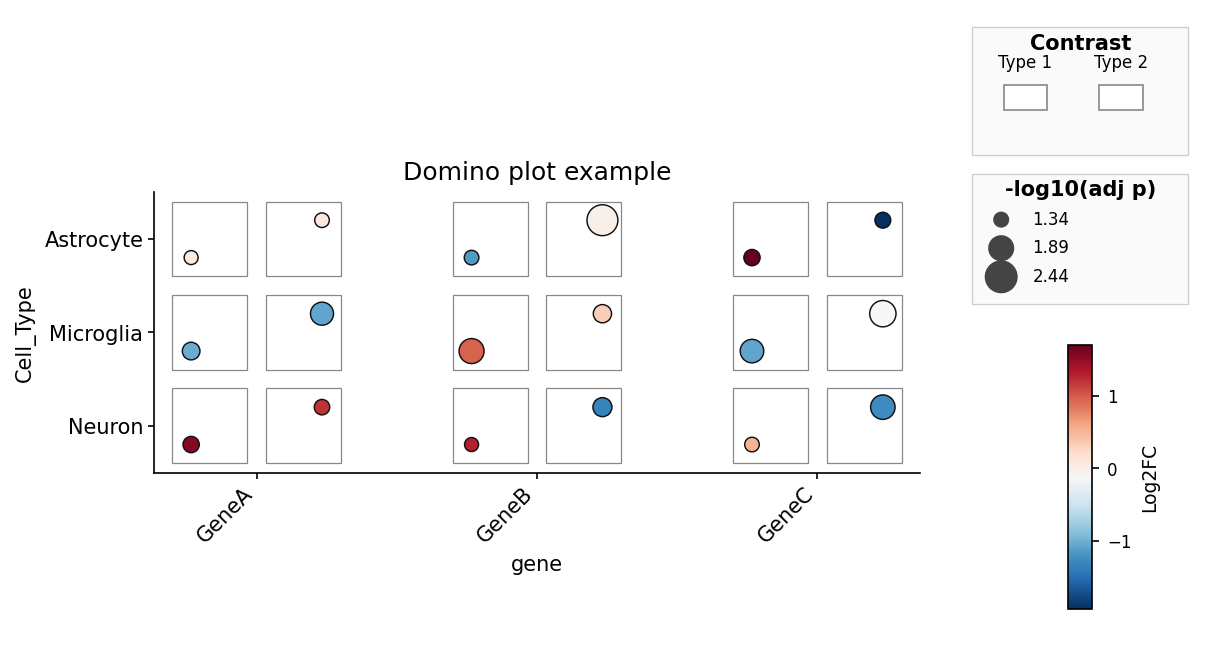
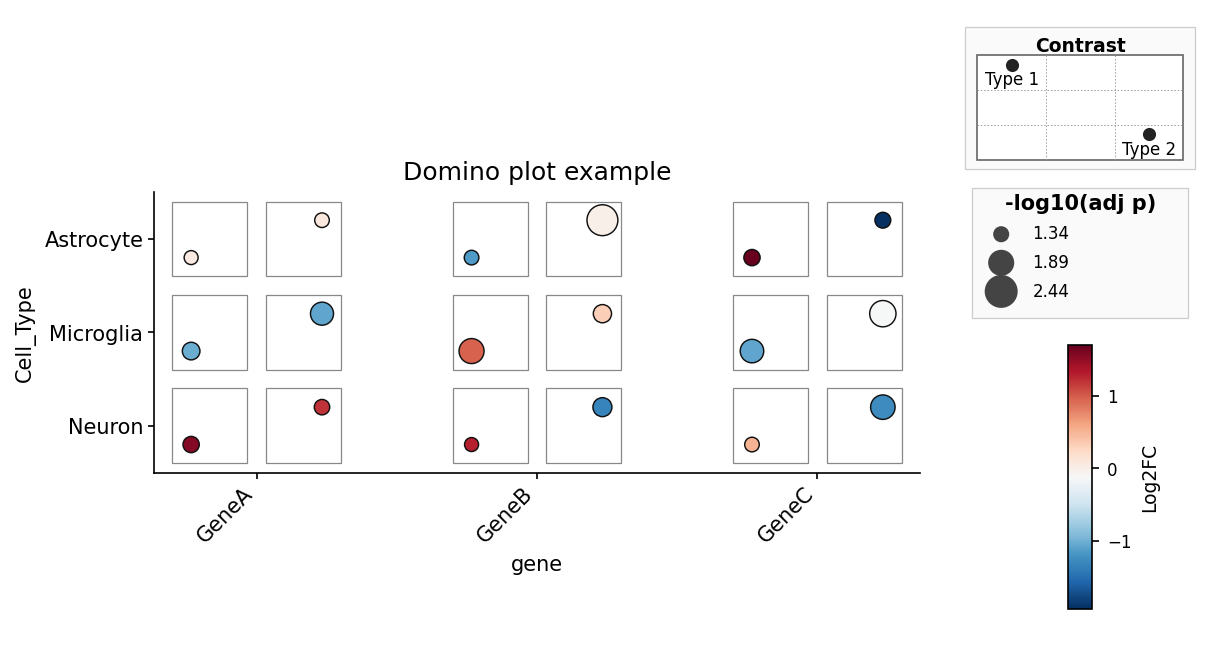
Make domino legends use the standard pydiceplot position key

Changed region(s): [[0.7918, 0.0301, 0.9745, 0.4812]]

diff --git a/pydiceplot/plots/backends/_plotly_backend.py b/pydiceplot/plots/backends/_plotly_backend.py
@@ -8,6 +8,7 @@ When `fig=` is supplied we add shapes/traces to it and skip the legend stack
 from __future__ import annotations
 
 import os
+from types import SimpleNamespace
 from typing import List, Optional
 
 import matplotlib
@@ -638,7 +639,9 @@ def _draw_domino_legend_stack(
     shapes = list(fig.layout.shapes) if fig.layout.shapes else []
     annos = list(fig.layout.annotations) if fig.layout.annotations else []
 
-    cursor = _legend_domino_contrasts(shapes, annos, dp.contrast_labels, lx0, lx1, cursor)
+    cursor = _legend_domino_contrasts(
+        shapes, annos, dp.contrast_labels, lx0, lx1, cursor, aspect
+    )
     cursor -= 0.02
 
     if dp.size_extent is not None and size_label:
@@ -655,42 +658,9 @@ def _draw_domino_legend_stack(
 
 
 def _legend_domino_contrasts(shapes, annos, labels: List[str],
-                             x0: float, x1: float, y_top: float) -> float:
-    box_pad = 0.01
-    title_h = 0.025
-    demo_h = 0.12
-    total_h = title_h + demo_h + 2 * box_pad
-    box_bot = y_top - total_h
-
-    shapes.append(dict(
-        type="rect", xref="paper", yref="paper",
-        x0=x0, x1=x1, y0=box_bot, y1=y_top,
-        fillcolor="#fafafa", line=dict(color="#cccccc", width=0.8),
-    ))
-    annos.append(dict(
-        x=(x0 + x1) / 2, y=y_top - title_h / 2 - box_pad,
-        xref="paper", yref="paper",
-        text="<b>Contrast</b>", showarrow=False, font=dict(size=10),
-        xanchor="center", yanchor="middle",
-    ))
-
-    rect_w = 0.06
-    rect_h = 0.03
-    rect_y0 = box_bot + 0.035
-    rect_positions = [x0 + 0.04, x0 + 0.13]
-    for rect_x0, label in zip(rect_positions, labels):
-        shapes.append(dict(
-            type="rect", xref="paper", yref="paper",
-            x0=rect_x0, x1=rect_x0 + rect_w, y0=rect_y0, y1=rect_y0 + rect_h,
-            fillcolor="white", line=dict(color="#888888", width=0.8),
-        ))
-        annos.append(dict(
-            x=rect_x0 + rect_w / 2, y=rect_y0 + rect_h + 0.02,
-            xref="paper", yref="paper",
-            text=label, showarrow=False, font=dict(size=8),
-            xanchor="center", yanchor="bottom",
-        ))
-    return box_bot
+                             x0: float, x1: float, y_top: float, aspect: float) -> float:
+    legend_dp = SimpleNamespace(npips=len(labels), pip_labels=list(labels))
+    return _legend_position(shapes, annos, legend_dp, "Contrast", x0, x1, y_top, aspect)
 
 
 def _legend_domino_size(shapes, annos, title: str, srange,

diff --git a/tests/test_domino_plot.py b/tests/test_domino_plot.py
@@ -93,6 +93,30 @@ def test_matplotlib_domino_returns_fig_ax():
     plt.close(fig)
 
 
+def test_matplotlib_domino_legend_has_position_dots_and_labels():
+    pydiceplot.set_backend("matplotlib")
+    data = get_domino_example_data()
+    fig, _ = domino_plot(
+        data,
+        "gene", "Cell_Type", "Group",
+        fill="logFC",
+        size="neg_log10_adj_p",
+        contrast_order=["Type1", "Type2"],
+        contrast_labels=["Type 1", "Type 2"],
+        fill_label="Log2FC",
+        size_label="-log10(adj p)",
+    )
+    legend_ax = fig.axes[1]
+    texts = [text.get_text() for text in legend_ax.texts]
+    assert "Contrast" in texts
+    assert "Type 1" in texts
+    assert "Type 2" in texts
+    assert len(legend_ax.collections) >= 2
+    assert len(legend_ax.collections[0].get_offsets()) == 2
+    assert len(legend_ax.lines) >= 4
+    plt.close(fig)
+
+
 def test_matplotlib_domino_with_existing_ax_returns_ax():
     pydiceplot.set_backend("matplotlib")
     data = get_domino_example_data()
@@ -142,6 +166,37 @@ def test_plotly_domino_returns_figure():
     assert isinstance(fig, go.Figure)
     assert len(fig.layout.shapes) > 0
     assert any(trace.type == "scatter" for trace in fig.data)
+
+
+def test_plotly_domino_legend_has_position_dots_and_labels():
+    pydiceplot.set_backend("plotly")
+    data = get_domino_example_data()
+    fig = domino_plot(
+        data,
+        "gene", "Cell_Type", "Group",
+        fill="logFC",
+        size="neg_log10_adj_p",
+        contrast_order=["Type1", "Type2"],
+        contrast_labels=["Type 1", "Type 2"],
+        fill_label="Log2FC",
+        size_label="-log10(adj p)",
+    )
+    annotations = [annotation.text for annotation in fig.layout.annotations]
+    assert "<b>Contrast</b>" in annotations
+    assert "Type 1" in annotations
+    assert "Type 2" in annotations
+    top_legend_circles = [
+        shape for shape in fig.layout.shapes
+        if shape.type == "circle" and shape.xref == "paper" and shape.yref == "paper"
+        and float(shape.y0) > 0.75
+    ]
+    assert len(top_legend_circles) == 2
+    top_legend_lines = [
+        shape for shape in fig.layout.shapes
+        if shape.type == "line" and shape.xref == "paper" and shape.yref == "paper"
+        and float(shape.y0) > 0.70 and float(shape.y1) > 0.70
+    ]
+    assert len(top_legend_lines) >= 4
 
 
 def test_plotly_domino_with_existing_fig_reuses_figure():

diff --git a/pydiceplot/plots/backends/_matplotlib_backend.py b/pydiceplot/plots/backends/_matplotlib_backend.py
@@ -9,6 +9,7 @@ layout, so a second axes would fight with their figure.
 from __future__ import annotations
 
 import os
+from types import SimpleNamespace
 from typing import Optional, Tuple, Union
 
 import matplotlib
@@ -579,40 +580,8 @@ def _draw_domino_legend_stack(
 
 
 def _legend_domino_contrasts(lax: plt.Axes, labels: List[str], y_top: float) -> float:
-    x0, x1 = 0.05, 0.95
-    box_pad = 0.02
-    title_h = 0.03
-    demo_h = 0.13
-    total_h = title_h + demo_h + 2 * box_pad
-    box_bot = y_top - total_h
-
-    lax.add_patch(patches.Rectangle(
-        (x0, box_bot), x1 - x0, total_h,
-        facecolor="#fafafa", edgecolor="#cccccc", linewidth=0.6,
-        transform=lax.transAxes, clip_on=False,
-    ))
-    lax.text(
-        (x0 + x1) / 2, y_top - title_h / 2 - box_pad / 2,
-        "Contrast", ha="center", va="center", fontweight="bold", fontsize=10,
-        transform=lax.transAxes,
-    )
-
-    box_y = box_bot + box_pad + 0.05
-    rect_w = 0.18
-    rect_h = 0.04
-    rect_xs = [0.18, 0.58]
-    for rect_x, label in zip(rect_xs, labels):
-        lax.add_patch(patches.Rectangle(
-            (rect_x, box_y), rect_w, rect_h,
-            facecolor="white", edgecolor="#888888", linewidth=0.8,
-            transform=lax.transAxes, clip_on=False,
-        ))
-        lax.text(
-            rect_x + rect_w / 2, box_y + rect_h + 0.02,
-            label, ha="center", va="bottom", fontsize=8,
-            transform=lax.transAxes,
-        )
-    return box_bot
+    legend_dp = SimpleNamespace(npips=len(labels), pip_labels=list(labels))
+    return _legend_position(lax, legend_dp, "Contrast", y_top)
 
 
 def _legend_domino_size(lax: plt.Axes, title: str, srange, y_top: float) -> float:
